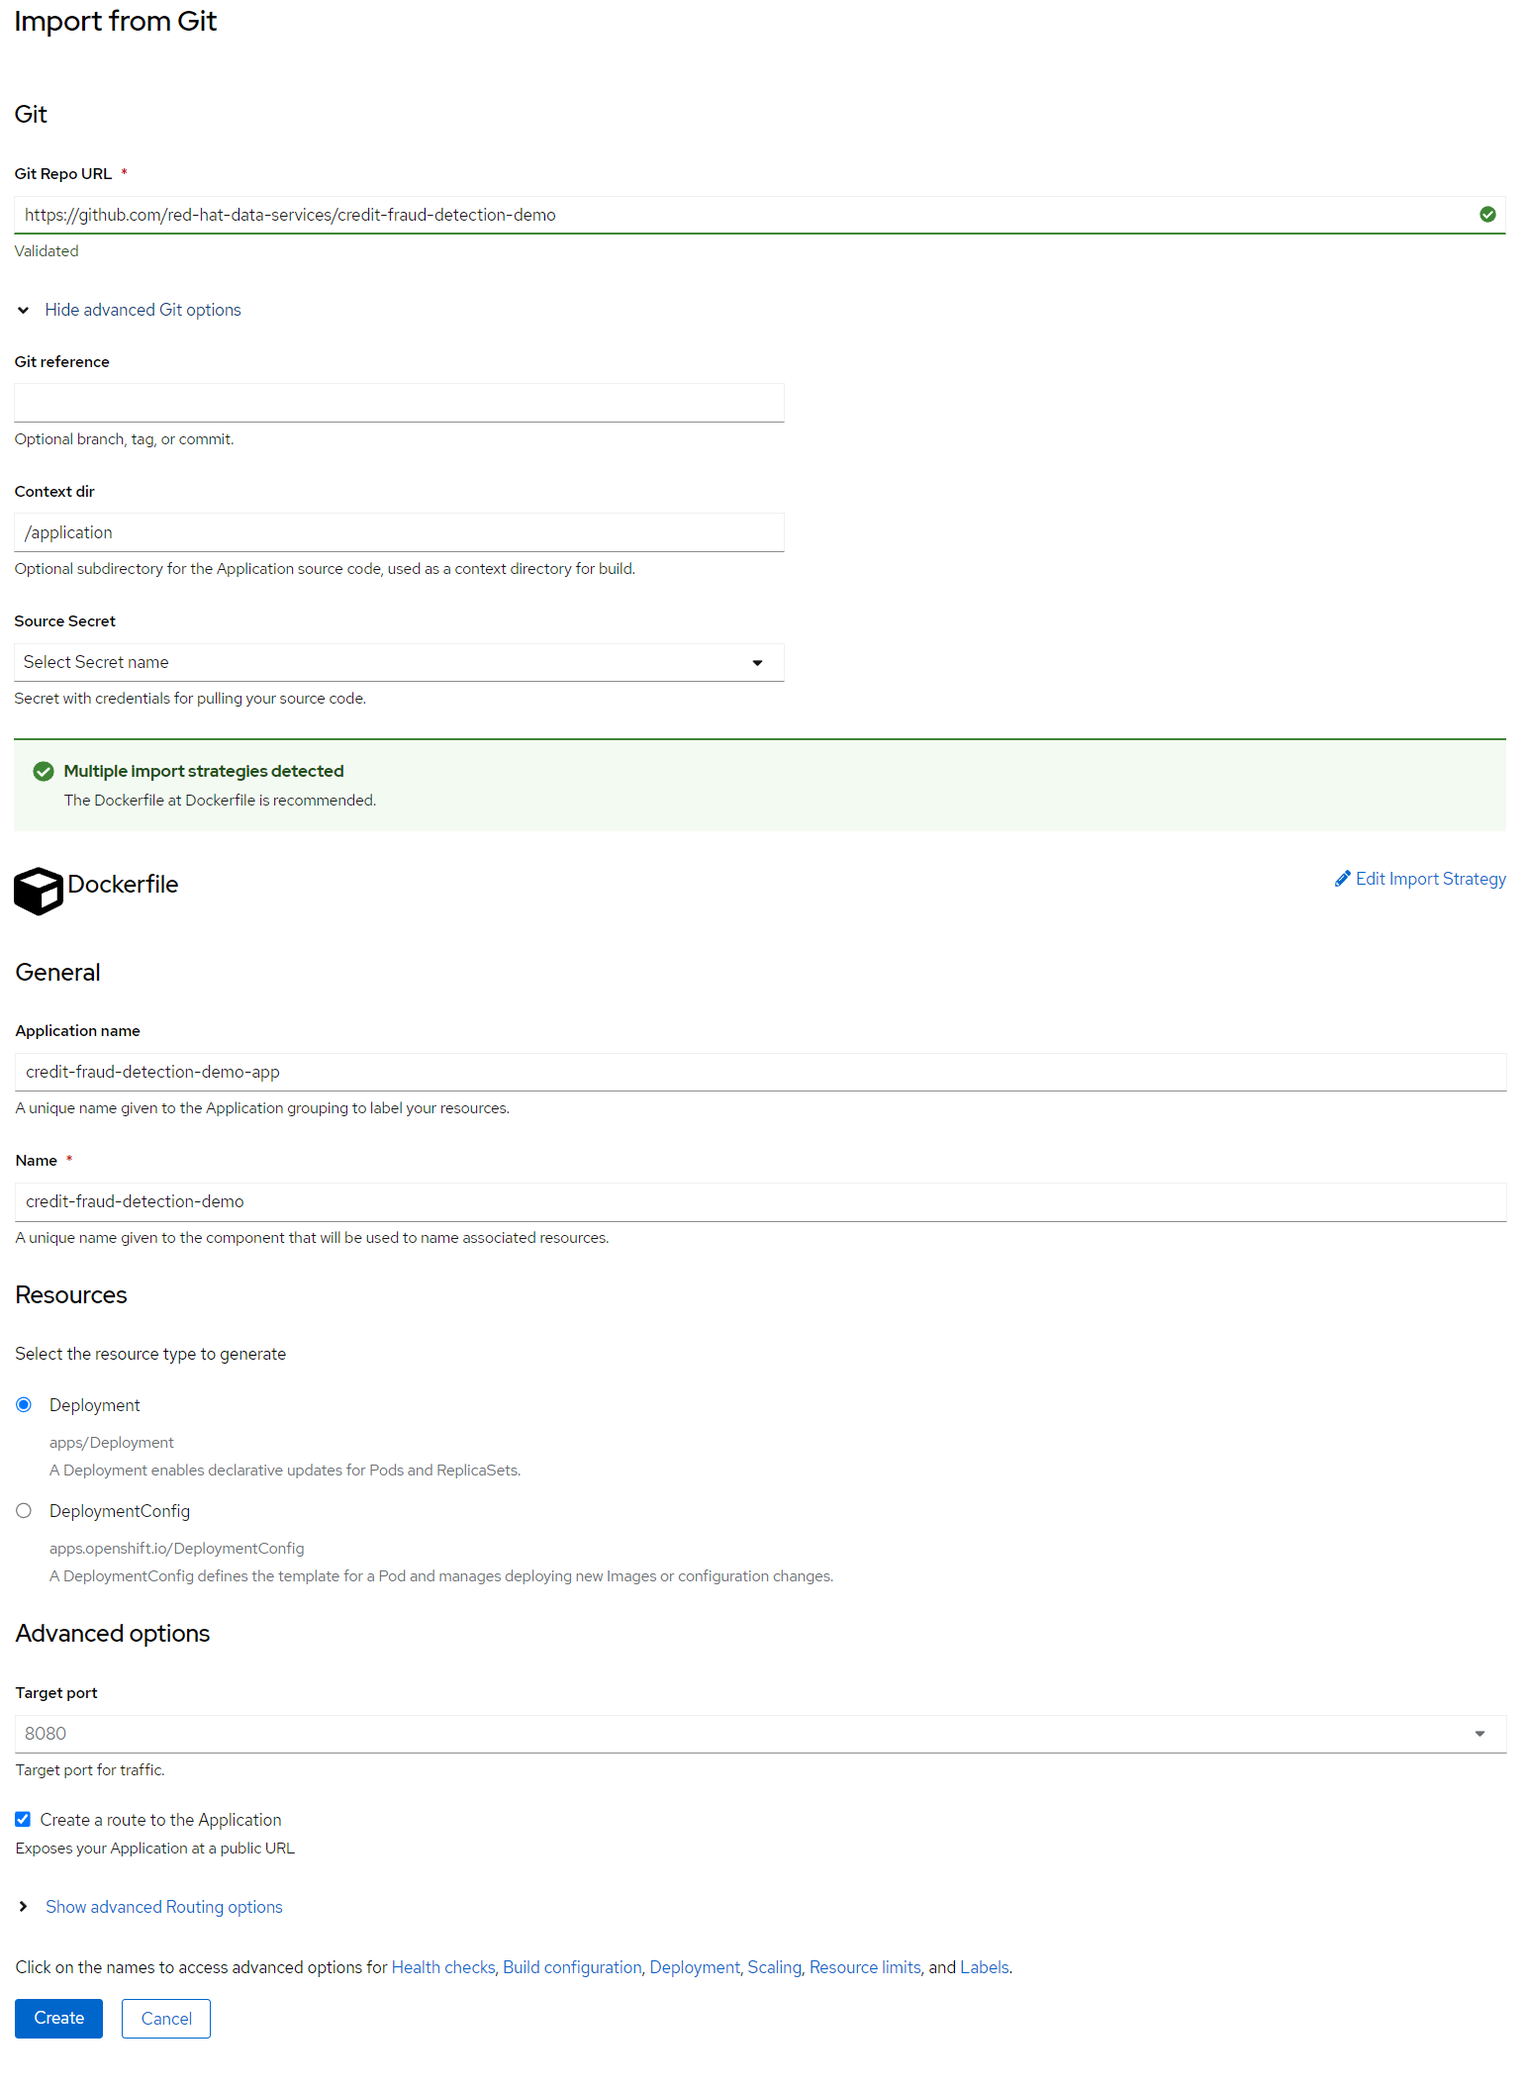
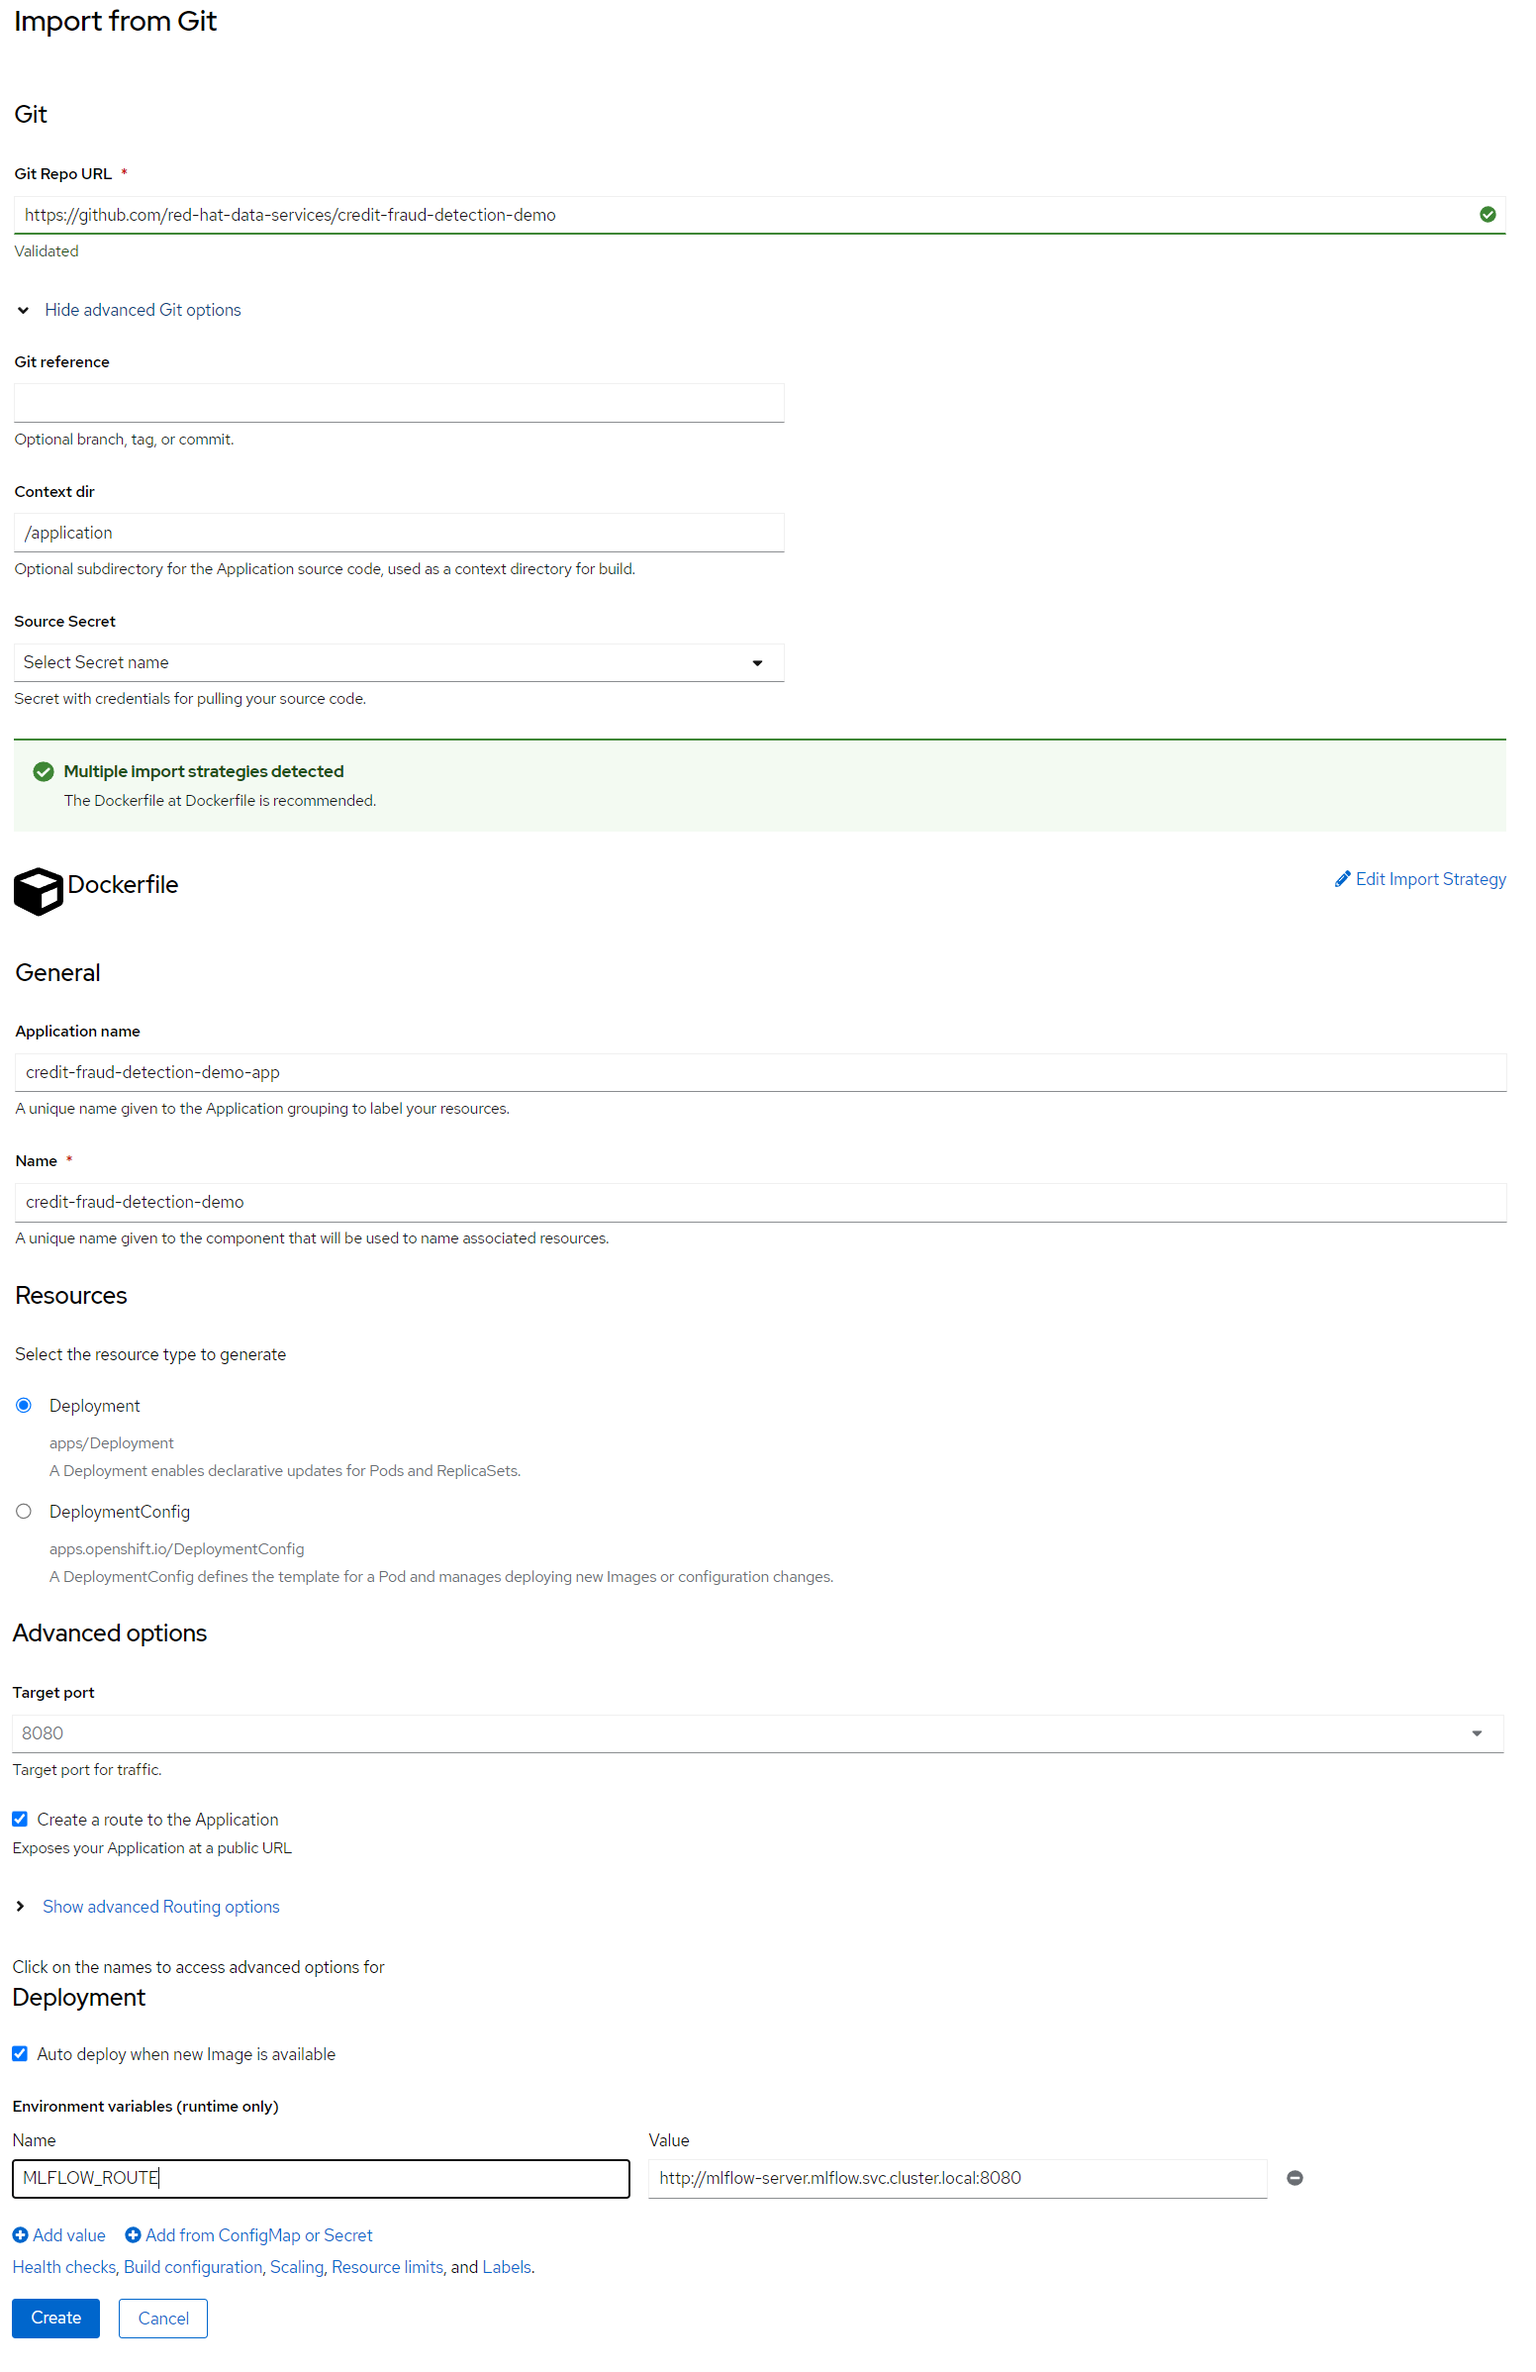
Added instructions for Env variable during application deployment

diff --git a/docs/demos/credit-card-fraud/credit-card-fraud.md b/docs/demos/credit-card-fraud/credit-card-fraud.md
@@ -191,9 +191,17 @@ Then press "+Add" in the left menu and select Import from Git.
 
 In the "Git Repo URL" enter: [https://github.com/red-hat-data-services/credit-fraud-detection-demo](https://github.com/red-hat-data-services/credit-fraud-detection-demo) (this is the same repository we pulled into RHODS earlier).  
 Then press "Show advanced Git options" and set "Context dir" to "/application".  
-Press Create to start deploying the application.
+Finally, at the very bottom, click the blue "Deployment" link:
+
+![Deployment Options](img/Deployment_Options.png)
+
+And add `MLFLOW_ROUTE` as Name and your route from [step one](#11-mlflow-route-through-the-visual-interface) as Value (`http://mlflow-server.mlflow.svc.cluster.local:8080` for example).
+
+Your full settings page should look like this:
 
 ![Import from Git Settings](img/Import_from_Git_settings.png)
+
+Press Create to start deploying the application.
 
 You should now see two objects in your topology map, one for the Workbench we created earlier and one for the application we just added.  
 When the circle of your deployment turns dark blue it means that it has finished deploying.  
